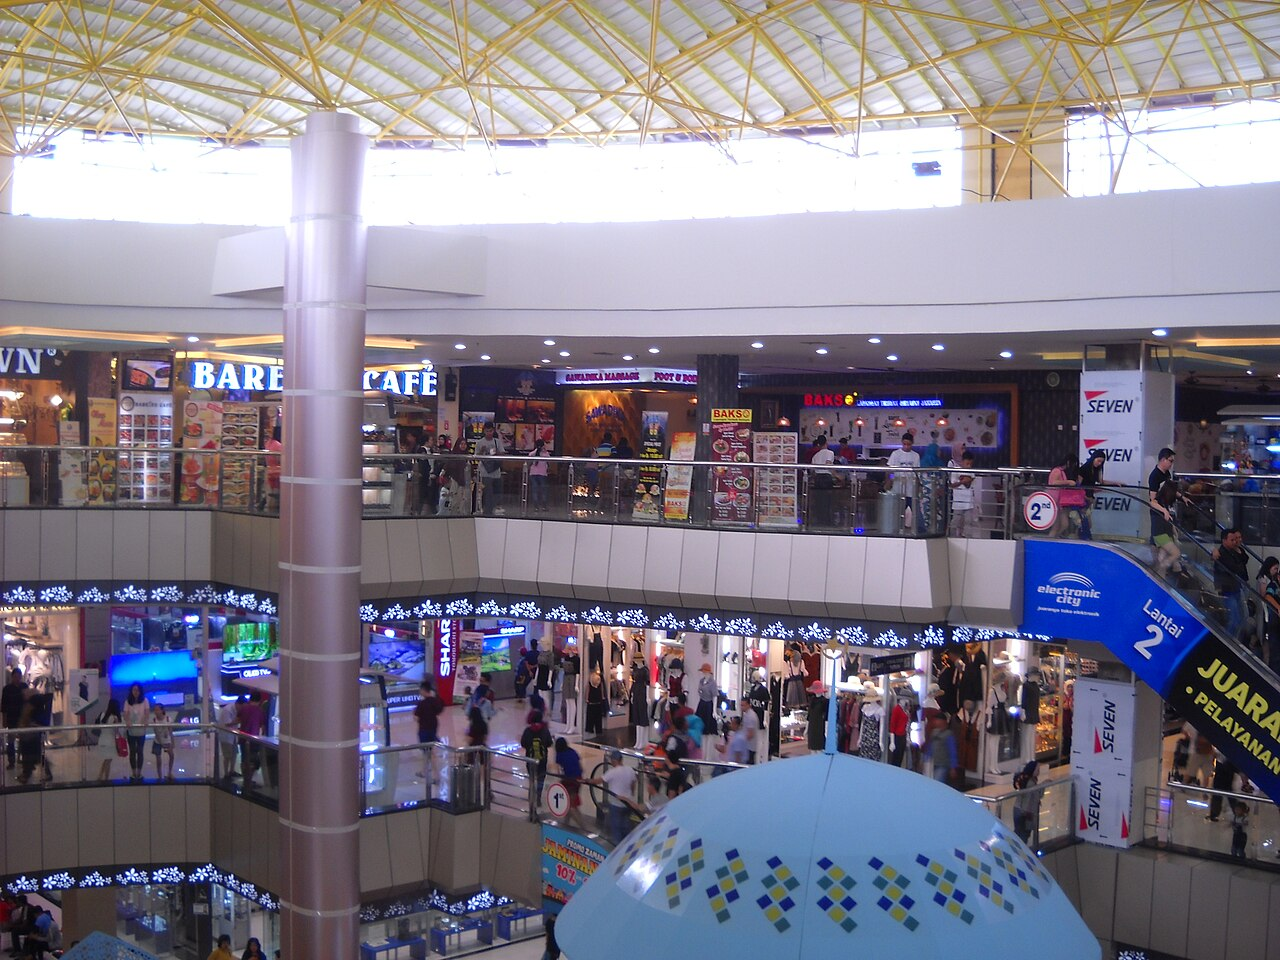
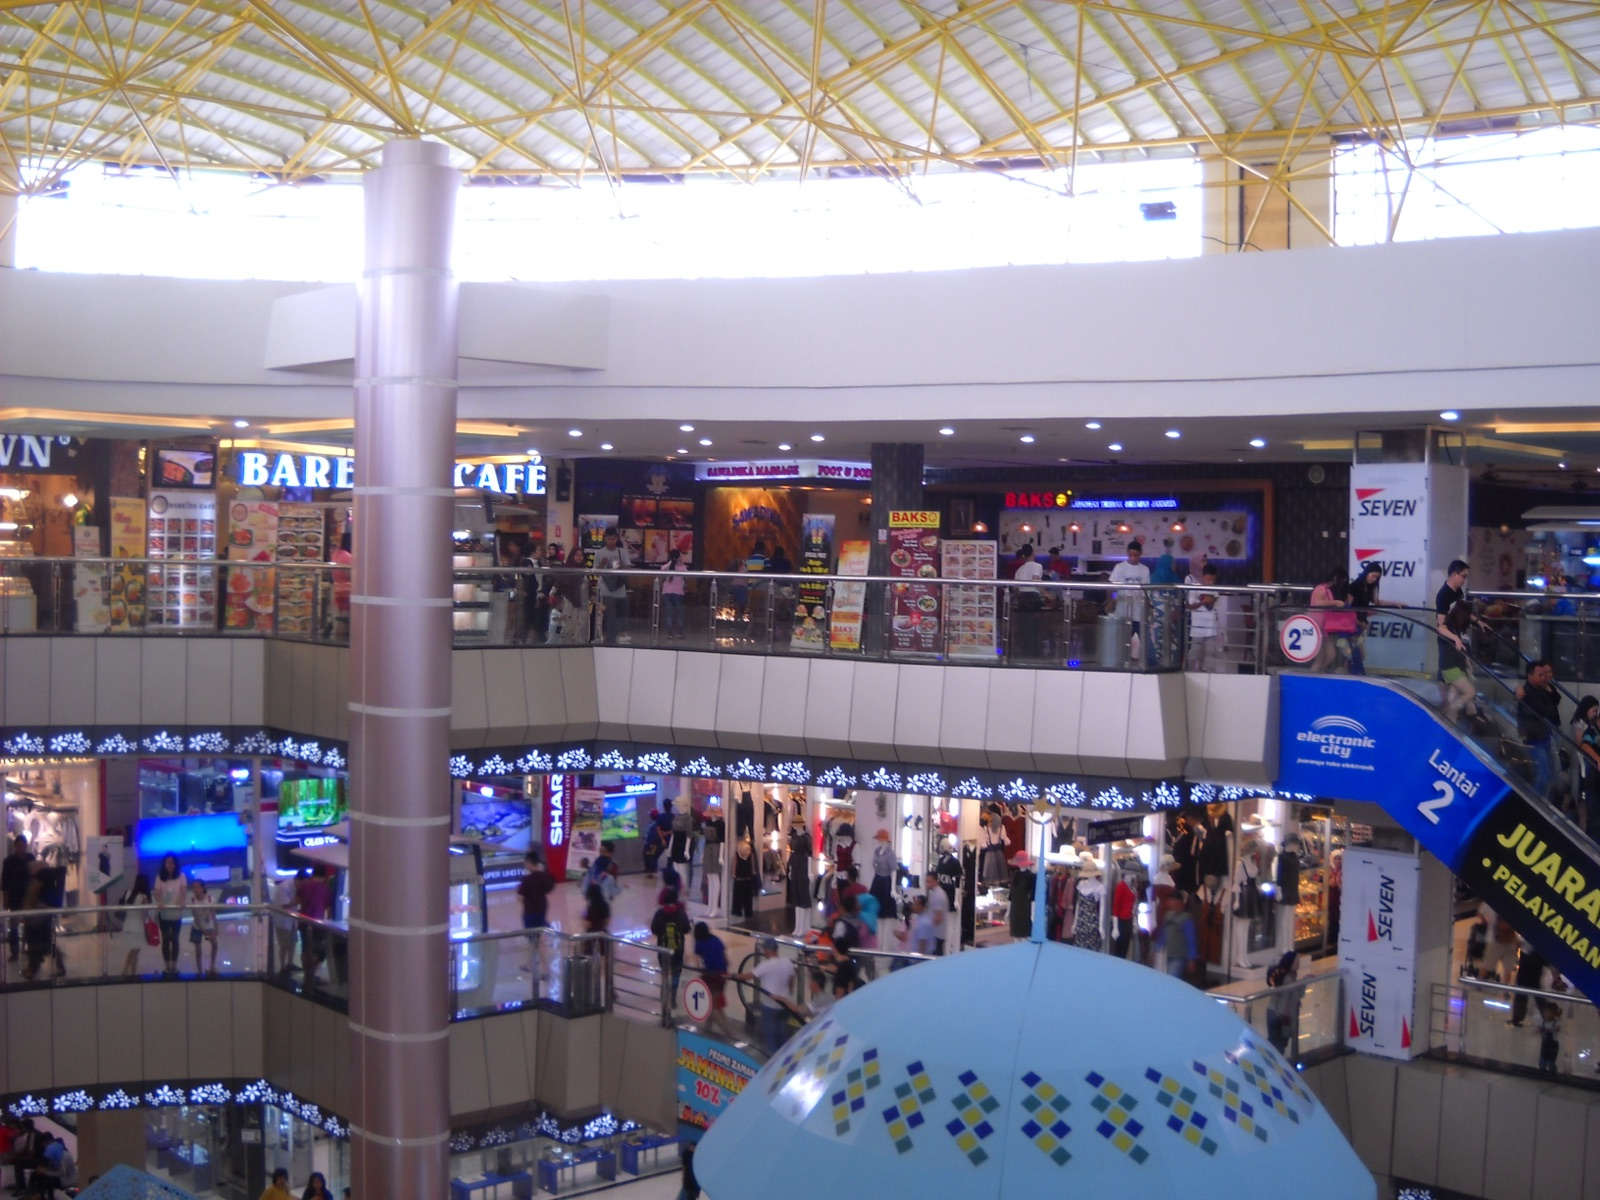
Use higher-quality Where to Go photos, remove low-quality Bukit Senyum image

diff --git a/index.html b/index.html
@@ -358,10 +358,10 @@ dialog::backdrop{background:color-mix(in oklch,var(--fg) 45%,transparent)}
           <div class="place-body"><span class="place-tag" data-en="Landmark" data-id="Ikon kota">Landmark</span><h3>Barelang Bridge</h3><p data-en="Batam’s signature bridge linking Batam, Rempang and Galang. Stop for the view — best at sunset and after dark." data-id="Jembatan ikonik Batam yang menghubungkan Batam, Rempang, dan Galang. Berhenti untuk menikmati pemandangan — terbaik saat senja dan malam hari.">Batam’s signature bridge linking Batam, Rempang and Galang. Stop for the view — best at sunset and after dark.</p></div>
         </article>
         <article class="place panel" data-od-id="place-nagoya">
-          <div class="place-media"><img src="assets/nagoya-hill.jpg" alt="Inside Nagoya Hill Shopping Mall, Nagoya, Batam" width="1280" height="960" loading="lazy"></div>
+          <div class="place-media"><img src="assets/nagoya-hill.jpg" alt="Inside Nagoya Hill Shopping Mall, Nagoya, Batam" width="1600" height="1200" loading="lazy"></div>
           <div class="place-body"><span class="place-tag" data-en="Shopping" data-id="Belanja">Shopping</span><h3>Nagoya Batam</h3><p data-en="Batam’s shopping district for bags, gadgets, perfume and electronics — duty-free prices across the free trade zone." data-id="Kawasan belanja Batam untuk tas, gadget, parfum, dan elektronik — harga bebas pajak di kawasan perdagangan bebas.">Batam’s shopping district for bags, gadgets, perfume and electronics — duty-free prices across the free trade zone.</p></div></article>
         <article class="place panel" data-od-id="place-ocarina">
-          <div class="place-media"><img src="assets/ocarina-park.jpg" alt="360 Madness ride at Ocarina Park, Batam" width="663" height="382" loading="lazy"></div>
+          <div class="place-media"><img src="assets/ocarina-park.jpg" alt="Ferris wheel and seafront at Ocarina Park, Batam" width="1200" height="675" loading="lazy"></div>
           <div class="place-body"><span class="place-tag" data-en="Family" data-id="Keluarga">Family</span><h3>Ocarina Park</h3><p data-en="A 40-hectare beachfront theme park by the sea — an easy family stop between the city and the coast." data-id="Taman rekreasi tepi pantai seluas 40 hektar — persinggahan keluarga yang mudah antara kota dan pesisir.">A 40-hectare beachfront theme park by the sea — an easy family stop between the city and the coast.</p></div></article>
         <article class="place panel" data-od-id="place-kepri-coral">
           <div class="place-media"><img src="assets/kepri-coral.jpg" alt="Kepri Coral floating restaurant at sunset, Pengalap Island, Batam" width="1000" height="667" loading="lazy"></div>
@@ -369,11 +369,8 @@ dialog::backdrop{background:color-mix(in oklch,var(--fg) 45%,transparent)}
         <article class="place panel" data-od-id="place-mubut">
           <div class="place-media"><img src="assets/pulau-mubut.jpg" alt="White sand spit and beach umbrella on Pulau Mubut, Batam" width="1200" height="865" loading="lazy"></div>
           <div class="place-body"><span class="place-tag" data-en="Island" data-id="Pulau">Island</span><h3>Pulau Mubut</h3><p data-en="An uninhabited tropical island for sunset, swimming and white sand. Keep it clean for the next visitors." data-id="Pulau tropis tak berpenghuni untuk menikmati senja, berenang, dan pasir putih. Jaga kebersihannya untuk pengunjung berikutnya.">An uninhabited tropical island for sunset, swimming and white sand. Keep it clean for the next visitors.</p></div></article>
-        <article class="place panel" data-od-id="place-bukit-senyum">
-          <div class="place-media"><img src="assets/bukit-senyum.jpg" alt="Batam city lights at night from Bukit Senyum viewpoint" width="969" height="607" loading="lazy"></div>
-          <div class="place-body"><span class="place-tag" data-en="Viewpoint" data-id="Titik pandang">Viewpoint</span><h3>Bukit Senyum</h3><p data-en="Hilltop panorama over Batam — and Singapore’s skyline across the water. Go at night for the city lights." data-id="Panorama dari perbukitan Batam — dan cakrawala Singapura di seberang laut. Datang malam hari untuk gemerlap lampu kota.">Hilltop panorama over Batam — and Singapore’s skyline across the water. Go at night for the city lights.</p></div></article>
       </div>
-      <p class="place-credits" data-en="Photos: Kepri Coral by TheSmartLocal; other Batam location photos from local travel sources." data-id="Foto: Kepri Coral oleh TheSmartLocal; foto lokasi Batam lainnya dari sumber wisata lokal.">Photos: Kepri Coral by TheSmartLocal; other Batam location photos from local travel sources.</p>
+      <p class="place-credits" data-en="Photos: Nagoya Hill via Wikimedia Commons; Ocarina Park by The Travel Intern; Kepri Coral by TheSmartLocal; other Batam location photos from local travel sources." data-id="Foto: Nagoya Hill via Wikimedia Commons; Ocarina Park oleh The Travel Intern; Kepri Coral oleh TheSmartLocal; foto lokasi Batam lainnya dari sumber wisata lokal.">Photos: Nagoya Hill via Wikimedia Commons; Ocarina Park by The Travel Intern; Kepri Coral by TheSmartLocal; other Batam location photos from local travel sources.</p>
     </div>
   </section>
 
